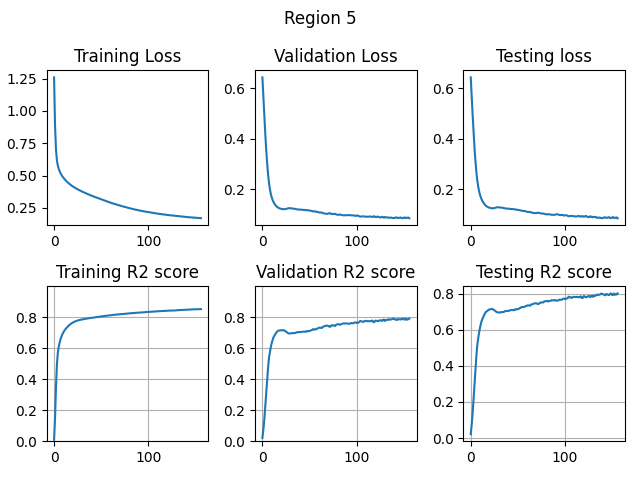
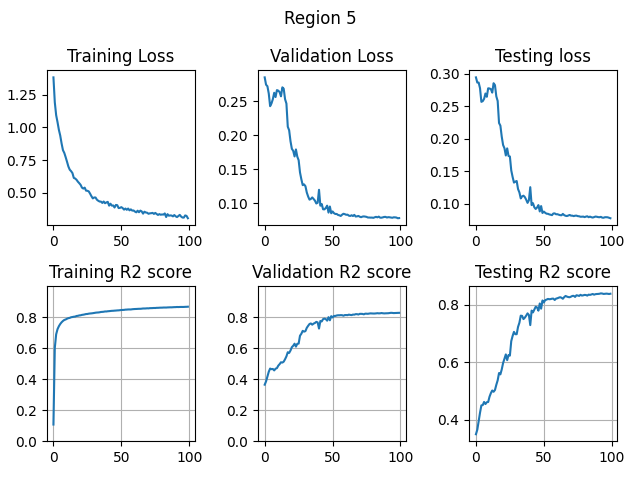
Model and loss

diff --git a/utils/imputation.py b/utils/imputation.py
@@ -16,13 +16,18 @@ def evaluation(dataloader, model, device, loss):
         predictions = []
         labels = []
         dosage = []
-        for (X, y, a1_freq) in dataloader:
-            X, y, a1_freq = X.to(device), y.to(device), a1_freq.to(device)
-        
+        for (X, y, y_dosage, a1_freq) in dataloader:
+            X, y, a1_freq = X.to(device, non_blocking=True), y.to(device, non_blocking=True), a1_freq.to(device, non_blocking=True)
+            X = torch.reshape(X, (X.shape[0]*X.shape[1],-1, 2))
+            y = torch.reshape(y, (y.shape[0]*y.shape[1],-1))
+            # y = torch.stack(y, dim=0)
+            a1_freq = torch.cat([a1_freq, a1_freq])
             # Compute prediction error
             logit_generator, prediction, _ = model(X)
+            print("dosage", y_dosage.shape)
             y_pred = torch.argmax(prediction, dim=-1).T
-            test_loss += loss['CustomCrossEntropy'](logit_generator, torch.flatten(y.T), torch.flatten(a1_freq.T)).item() 
+            # test_loss += loss['CustomCrossEntropy'](logit_generator, torch.flatten(y.T), torch.flatten(a1_freq.T)).item() 
+            test_loss += loss['CustomCrossEntropy'](logit_generator, torch.flatten(y.T)).item() 
             
             dosage.append(prediction)
             predictions.append(y_pred)
@@ -48,12 +53,26 @@ def train(dataloader, model, device, loss, optimizer, scheduler):
     #     if 'discriminator' in name or 'generator.linear' in name:
     #         print(name, param.grad)
 
-    for batch, (X, y, a1_freq) in enumerate(dataloader):
-        X, y, a1_freq = X.to(device), y.to(device), a1_freq.to(device)
+    for batch, (X, y, y_dosage, a1_freq) in enumerate(dataloader):
+        X, y, a1_freq, y_dosage = X.to(device, non_blocking=True), y.to(device, non_blocking=True), a1_freq.to(device, non_blocking=True), y_dosage.to(device, non_blocking=True)
         # Compute prediction error
+        X = torch.reshape(X, (X.shape[0]*X.shape[1],-1, 2))
+        y = torch.reshape(y, (y.shape[0]*y.shape[1],-1))
+        a1_freq = torch.cat([a1_freq, a1_freq])
         logit_generator, prediction, logit_discriminator = model(X)
         
-        loss_crossentropy = loss['CustomCrossEntropy'](logit_generator, torch.flatten(y.T), torch.flatten(a1_freq.T))
+        ###get dosage
+        tmp_evens = prediction[:,0::2]
+        tmp_odds = prediction[:,1::2]
+        a_b_b_a = tmp_evens[:, :, 0] * tmp_odds[:, :, 1] + tmp_evens[:, :, 1] * tmp_odds[:, :, 0]
+        b_b = tmp_evens[:, :, 1] * tmp_odds[:, :, 1]
+        kkk = (1*a_b_b_a + 2*b_b)
+        dosage = kkk.T.to(device)
+
+        loss_l1 = loss['L1Loss'](dosage, y_dosage)
+        # loss_crossentropy = loss['CustomCrossEntropy'](logit_generator, torch.flatten(y.T), torch.flatten(a1_freq.T))
+        loss_crossentropy = loss['CustomCrossEntropy'](logit_generator, torch.flatten(y.T))
+
         y_pred = torch.argmax(prediction, dim=-1).T
         
         '''
@@ -61,10 +80,12 @@ def train(dataloader, model, device, loss, optimizer, scheduler):
             - 0 indicates the token is an original token,
             - 1 indicates the token was replaced.
         '''
+
+        # print(y_pred.shape, y.shape)
         label_discriminator = (y_pred != y).float()
         loss_BCE = loss['BCEWithLogitsLoss'](logit_discriminator, label_discriminator)
 
-        total_loss = loss_BCE + loss_crossentropy
+        total_loss = loss_BCE + loss_crossentropy + loss_l1
         predictions.append(y_pred)
         labels.append(y)
         #Backpropagation
@@ -121,35 +142,42 @@ def write_dosage(dosage, imp_site_info_list, chr, region, output_prefix, ground_
     
     mkdir(os.path.dirname(output_prefix))
     with open(output_prefix, 'wt') as fp:
+        tmp_evens = dosage[:,0::2]
+        tmp_odds = dosage[:,1::2]
+        a_b_b_a = tmp_evens[:, :, 0] * tmp_odds[:, :, 1] + tmp_evens[:, :, 1] * tmp_odds[:, :, 0]
+        b_b = tmp_evens[:, :, 1] * tmp_odds[:, :, 1]
+        dosage = (1*a_b_b_a + 2*b_b).cpu().detach().numpy()
+        # print(kkk.shape)
+        # dosage = kkk.T.to(device)
         for allele_probs, site_info in zip(dosage, imp_site_info_list):
-            # print(allele_probs.shape)
+        #     # print(allele_probs.shape)
             a1_freq = site_info.a1_freq
             if site_info.a1_freq > 0.5:
                 a1_freq = 1. - site_info.a1_freq
                 if a1_freq == 0:
                     a1_freq = 0.00001
 
-            sample_size = len(allele_probs) // 2
-            values = [0.0] * sample_size
-            for i in range(sample_size):
-                h0 = allele_probs[2 * i]
-                h1 = allele_probs[2 * i + 1]
-                # print(h0.shape, h1.shape)
-                if ground_truth == False:
-                    a_a = h0[0] * h1[0]
-                    a_b_b_a = h0[0] * h1[1] + h0[1] * h1[0]
-                    b_b = h0[1] * h1[1]
-                    # print(a_a, a_b_b_a, b_b)
-                    values[i] = (0*a_a + 1*a_b_b_a + 2*b_b).item()
+        #     sample_size = len(allele_probs) // 2
+        #     values = [0.0] * sample_size
+        #     for i in range(sample_size):
+        #         h0 = allele_probs[2 * i]
+        #         h1 = allele_probs[2 * i + 1]
+        #         # print(h0.shape, h1.shape)
+        #         if ground_truth == False:
+        #             a_a = h0[0] * h1[0]
+        #             a_b_b_a = h0[0] * h1[1] + h0[1] * h1[0]
+        #             b_b = h0[1] * h1[1]
+        #             # print(a_a, a_b_b_a, b_b)
+        #             values[i] = (0*a_a + 1*a_b_b_a + 2*b_b).item()
 
-                else:
-                    values[i] = (h0 + h1).item()
-                # print(values[i])
-                # break
+        #         else:
+        #             values[i] = (h0 + h1).item()
+        #         # print(values[i])
+        #         # break
             line = '--- %s %s %s %s %f ' \
                    % (f'chr22_{site_info.position}_{site_info.a0}_{site_info.a1}', site_info.position,
                       site_info.a0, site_info.a1, a1_freq)
-            line += ' '.join(map(str, values))
+            line += ' '.join(map(str, allele_probs))
             fp.write(line)
             fp.write('\n')
 

diff --git a/eval.py b/eval.py
@@ -2,7 +2,7 @@ import os
 import json
 import torch
 from torch import nn
-from model.single_model import SingleModel
+from model.grud_model import GRUD
 from model.multi_model import MultiModel
 from model.custom_cross_entropy import CustomCrossEntropyLoss
 
@@ -18,50 +18,32 @@ MULTI_MODEL = ['Hybrid']
 
 def run(dataloader, dataset, imp_site_info_list, model_config, args, region):
     device = get_device(args.gpu)
-    type_model = args.model_type
     model_dir = args.model_dir
     result_gen_dir = args.result_gen_dir
     chromosome = args.chromosome
-    gamma = args.gamma if type_model == 'Higher' else -args.gamma
-
-
-    #Init Model
-    if type_model in SINGLE_MODEL:
-        gamma = args.gamma if type_model == 'Higher' else -args.gamma
-        model = SingleModel(model_config, device, type_model=type_model).to(device) 
-
-    elif type_model in MULTI_MODEL:
-        gamma = 0
-        if args.best_model: 
-            model_config['lower_path'] = os.path.join(args.model_dir, f'Best_Lower_region_{region}.pt')
-            model_config['higher_path'] = os.path.join(args.model_dir, f'Best_Higher_region_{region}.pt')
-        else:
-            model_config['lower_path'] = os.path.join(args.model_dir, f'Lower_region_{region}.pt')
-            model_config['higher_path'] = os.path.join(args.model_dir, f'Higher_region_{region}.pt')
-        
-        model = MultiModel(model_config, device, type_model=type_model).to(device)
-    # model = SingleModel(model_config, device, type_model=type_model).to(device)
+    model_config['device'] = device
 
     #Init Model
-    loss_fn = CustomCrossEntropyLoss(gamma)
+    model = GRUD(model_config).to(device) 
+    loss_fn = nn.CrossEntropyLoss()
     loss_fct = nn.BCEWithLogitsLoss()
     loss = {
         'CustomCrossEntropy': loss_fn, 
         'BCEWithLogitsLoss': loss_fct
     }
     if args.best_model:
-        loaded_model = torch.load(os.path.join(model_dir, f'Best_{type_model}_region_{region}.pt'),map_location=torch.device(device))
+        loaded_model = torch.load(os.path.join(model_dir, f'Best_grud_region_{region}.pt'),map_location=torch.device(device))
     else:
-        loaded_model = torch.load(os.path.join(model_dir, f'{type_model}_region_{region}.pt'),map_location=torch.device(device))
+        loaded_model = torch.load(os.path.join(model_dir, f'grud_region_{region}.pt'),map_location=torch.device(device))
     model.load_state_dict(loaded_model)
-    print(f"Loaded {type_model}_{region} model")
+    print(f"Loaded grud_{region} model")
     test_loss, _r2_score, (predictions, labels, dosage) = evaluation(dataloader, model, device, loss)
-    print(predictions.shape, labels.shape)
+    print(predictions.shape, labels.shape, dosage.shape)
     print(f"[Evaluate] Loss: {test_loss} \t R2 Score: {_r2_score}")
-    write_gen(predictions, dosage, imp_site_info_list, chromosome, region, type_model, result_gen_dir)
-    # write_gen(labels, labels.T, imp_site_info_list, chromosome, region, type_model, result_gen_dir, ground_truth=True)
-    # write_dosage(dosage, imp_site_info_list, chromosome, region, type_model, result_gen_dir)
-    # write_dosage(labels.T, imp_site_info_list, chromosome, region, type_model, result_gen_dir, ground_truth=True)
+    # write_gen(predictions, dosage, imp_site_info_list, chromosome, region, result_gen_dir)
+    # write_gen(labels, labels.T, imp_site_info_list, chromosome, region, result_gen_dir, ground_truth=True)
+    write_dosage(dosage, imp_site_info_list, chromosome, region, result_gen_dir)
+    # write_dosage(labels.T, imp_site_info_list, chromosome, region, result_gen_dir, ground_truth=True)
 
     # draw_MAF_R2(predictions, labels, a1_freq_list, type_model, region, bins=30)
 
@@ -84,7 +66,7 @@ def main():
         testloader = DataLoader(dataset, batch_size=batch_size, shuffle=False)
         imp_site_info_list = [
             site_info
-            for site_info in dataset.site_info_list if site_info.array_marker_flag
+            for site_info in dataset.site_info_list if not site_info.array_marker_flag
         ]
         run(
             testloader,

diff --git a/data/dataset.py b/data/dataset.py
@@ -1,5 +1,6 @@
 from __future__ import print_function, division
 import os
+import torch
 from torch.utils.data import Dataset
 from .load_data import load_custom_dataset, load_site_info, load_dataset, load_site_info_custom_data
 
@@ -24,7 +25,6 @@ class RegionDataset(Dataset):
             self.haplotype_list, self.label_haplotype_list, self.a1_freq_list =\
                 load_custom_dataset(hap_dir, legend_dir, label_hap_dir, label_legend_dir)
 
-            print("[DATASET]:",self.haplotype_list.shape, self.label_haplotype_list.shape, self.a1_freq_list.shape)
             
         else:
             with open(os.path.join(root_dir, 'index.txt'), 'w+') as index_file:
@@ -39,19 +39,30 @@ class RegionDataset(Dataset):
             self.site_info_list = load_site_info(panel_dir)
             self.haplotype_list, self.label_haplotype_list, self.a1_freq_list =\
                 load_dataset(hap_dir, legend_dir, label_hap_dir, label_legend_dir, self.site_info_list, index_start)
-            print("[DATASET]:",self.haplotype_list.shape, self.label_haplotype_list.shape, self.a1_freq_list.shape)
-            
-        self.list_input = [Sample(self.haplotype_list[i], self.haplotype_list[i+1]) for i in range(0, len(self.haplotype_list)/2, 2)]
-        self.list_label = [Sample(self.haplotype_list[i], self.haplotype_list[i+1]) for i in range(0, len(self.label_haplotype_list)/2, 2)]
+        # self.list_input = torch.stack([torch.tensor([self.haplotype_list[i], self.haplotype_list[i+1]]) for i in range(0, len(self.haplotype_list), 2)])
+        self.list_input = []
+        for i in range(0, len(self.haplotype_list), 2):
+            tmp  = torch.stack([self.haplotype_list[i], self.haplotype_list[i+1]])
+            self.list_input.append(tmp)
+        
+        self.list_input = torch.stack(self.list_input)
+
+        self.list_label = torch.stack([torch.stack([self.label_haplotype_list[i], self.label_haplotype_list[i+1]]) for i in range(0, len(self.label_haplotype_list), 2)])
+        # print("[DATASET]:",self.list_input.shape, self.list_label.shape, self.a1_freq_list.shape)
+        print("[DATASET]:",self.list_input.shape, self.list_label.shape, self.a1_freq_list.shape)
 
     def __len__(self):
-        return len(self.haplotype_list)
+        return len(self.list_input)
     
     def __getitem__(self, index):
-        x = self.haplotype_list[index]
-        y = self.label_haplotype_list[index]
+        x = self.list_input[index]
+        y = self.list_label[index]
+        y_dosage = []
         a1_freq_list = self.a1_freq_list
-        return x, y, a1_freq_list
+        y_dosage= y[0] + y[1]
+
+        # y = torch.tensor(y)
+        return x, y, y_dosage, a1_freq_list
 
     
 

diff --git a/train.py b/train.py
@@ -36,20 +36,24 @@ def run(dataloader, model_config, args, region):
     train_loader = dataloader['train']
     val_loader = dataloader['val']
     test_loader = dataloader['test']
-
+    model_config['device'] = device
     #Init Model
-    model = GRUD(model_config, device).to(device) 
+
+    model = GRUD(model_config).to(device) 
     def count_parameters(model):
         return sum(p.numel() for p in model.parameters() if p.requires_grad)
     print("Number of learnable parameters:",count_parameters(model))
-    loss_fn = CustomCrossEntropyLoss()
+    loss_fn = nn.CrossEntropyLoss()
     loss_fct = nn.BCEWithLogitsLoss()
+    loss_l1 = nn.L1Loss()
     loss = {
         'CustomCrossEntropy': loss_fn, 
-        'BCEWithLogitsLoss': loss_fct
+        'BCEWithLogitsLoss': loss_fct,
+        'L1Loss': loss_l1
     }
     optimizer = torch.optim.Adam(model.parameters(), lr=lr, weight_decay=1e-5)
-    scheduler = torch.optim.lr_scheduler.ExponentialLR(optimizer, gamma=0.995)
+    scheduler = torch.optim.lr_scheduler.ExponentialLR(optimizer, gamma=0.97)
+
     early_stopping = EarlyStopping(patience=30)
     check_point_dir = args.check_point_dir
     _r2_score_list, loss_values = [], [] #train
@@ -127,9 +131,9 @@ def main():
         train_set, val_set = torch.utils.data.random_split(train_val_set, [train_size, val_size])
 
         print("[Train - Val- Test]:", len(train_set), len(val_set), len(test_set), 'samples')
-        train_loader = DataLoader(train_set, batch_size=batch_size, shuffle=False)
-        val_loader = DataLoader(val_set, batch_size=batch_size, shuffle=False)
-        test_loader = DataLoader(test_set, batch_size=batch_size, shuffle=False)
+        train_loader = DataLoader(train_set, batch_size=batch_size, shuffle=True, pin_memory=True, num_workers=1)
+        val_loader = DataLoader(val_set, batch_size=batch_size, shuffle=False, pin_memory=True, num_workers=1)
+        test_loader = DataLoader(test_set, batch_size=batch_size, shuffle=False, pin_memory=True, num_workers=1)
         dataloader = {
             'train': train_loader, 
             'test': test_loader,

diff --git a/model/gru_model.py b/model/gru_model.py
@@ -6,7 +6,7 @@ from torch.nn import functional as F
 from torch.nn.modules.batchnorm import BatchNorm1d
 
 class GRUModel(nn.Module):
-    def __init__(self, model_config, device):
+    def __init__(self, model_config):
         super(GRUModel,self).__init__()
         # Debug
         model_config['feature_size'] = 10
@@ -25,7 +25,7 @@ class GRUModel(nn.Module):
         # self.num_layers = model_config['num_layers']
         self.num_layers = 8
 
-        self.device = device
+        self.device = model_config['device']
 
         self.linear_feature_list = nn.ModuleList([
             nn.Sequential(
@@ -72,11 +72,7 @@ class GRUModel(nn.Module):
             return logits_list(g)  in paper
         '''
         batch_size = x.shape[0]
-        gru_inputs = []
-        for index, linear in enumerate(self.linear_feature_list):
-            gru_input = linear(x[:, index].float())
-            gru_inputs.append(gru_input)
-        gru_inputs = torch.stack(gru_inputs)
+        gru_inputs = torch.stack([linear(x[:, index].float()) for index, linear in enumerate(self.linear_feature_list)])
         outputs, _ = self._compute_gru(self.gru, gru_inputs, batch_size)
         logit_list = []
         for index, (t_fw, t_bw) in enumerate(zip(self.output_points_fw, self.output_points_bw)):

diff --git a/model/grud_model.py b/model/grud_model.py
@@ -20,10 +20,10 @@ class Discriminator(nn.Module):
 
 
 class GRUD(nn.Module):
-    def __init__(self,model_config, device):
+    def __init__(self,model_config):
         super(GRUD,self).__init__()
         self.num_classes = model_config['num_classes']
-        self.generator = GRUModel(model_config, device)
+        self.generator = GRUModel(model_config)
         self.discriminator = Discriminator(self.num_classes, 'sigmoid')
 
 
@@ -33,7 +33,7 @@ class GRUD(nn.Module):
         fake_logit = torch.stack(logit_prediction)
         logit_generator = torch.cat(logit_prediction, dim=0)
         prediction = F.softmax(fake_logit, dim=-1)
-        if self.train():
+        if self.training:
             discriminator_logit = self.discriminator(fake_logit.detach()).T
         return logit_generator, prediction, discriminator_logit
     

diff --git a/model/custom_cross_entropy.py b/model/custom_cross_entropy.py
@@ -8,6 +8,8 @@ class CustomCrossEntropyLoss(nn.Module):
         self.cross_entropy_loss = nn.CrossEntropyLoss(reduction='none')
 
     def forward(self, pred, target, a1_freq_list):
+
+        # print(pred.shape, target.shape, a1_freq_list.shape)
         assert pred.shape[0] == target.shape[0] and target.shape[0] == a1_freq_list.shape[0]
         return self.cross_entropy_loss(pred, target).mean()
             
